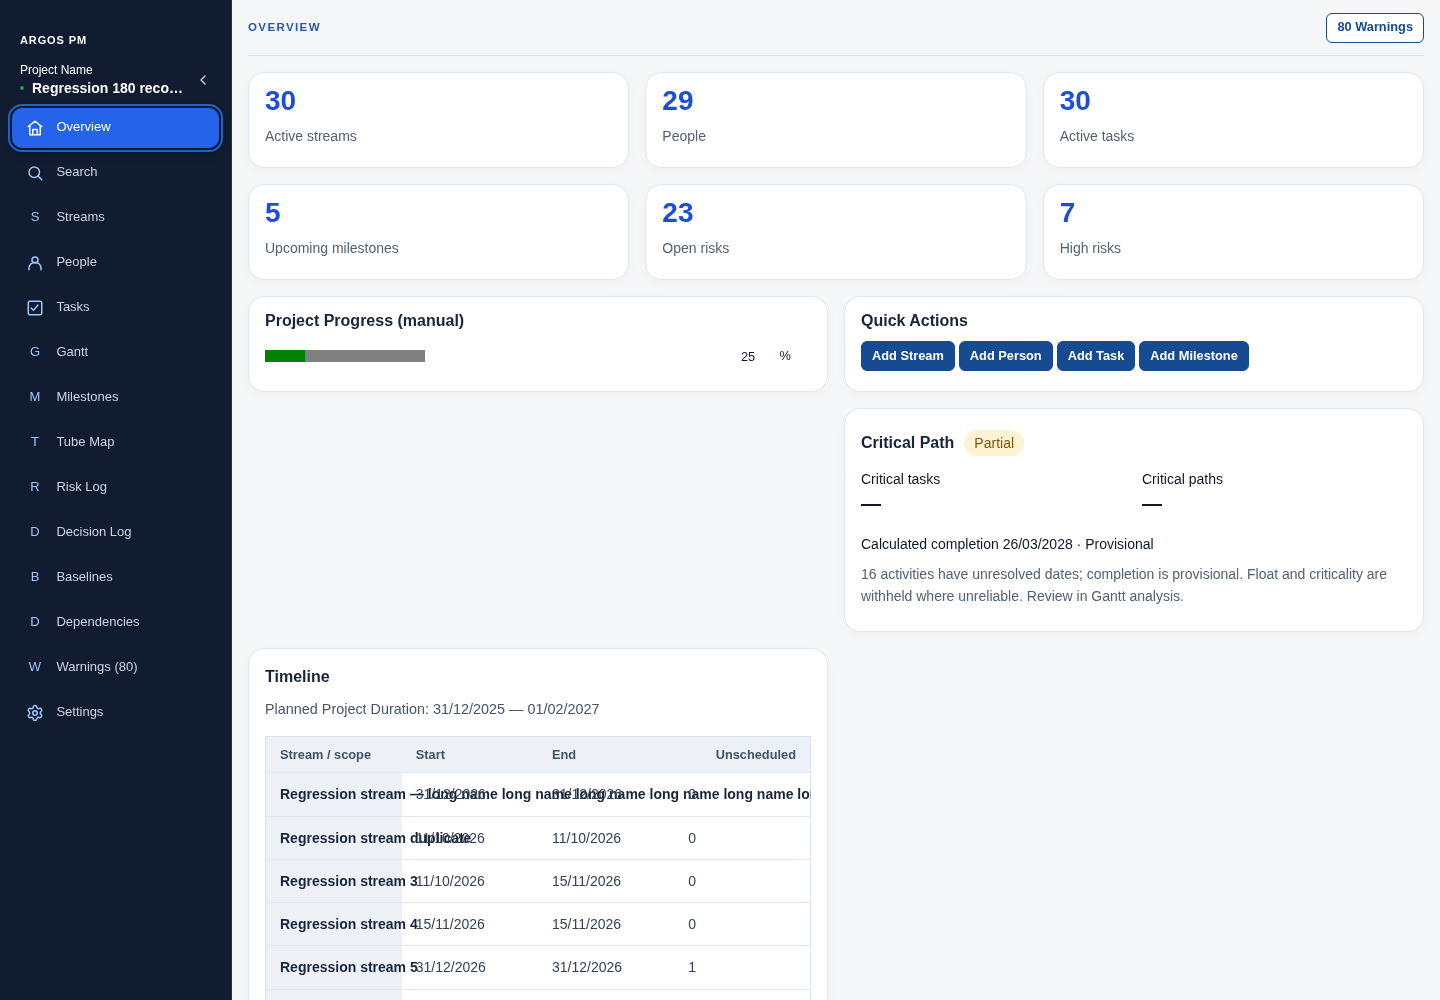
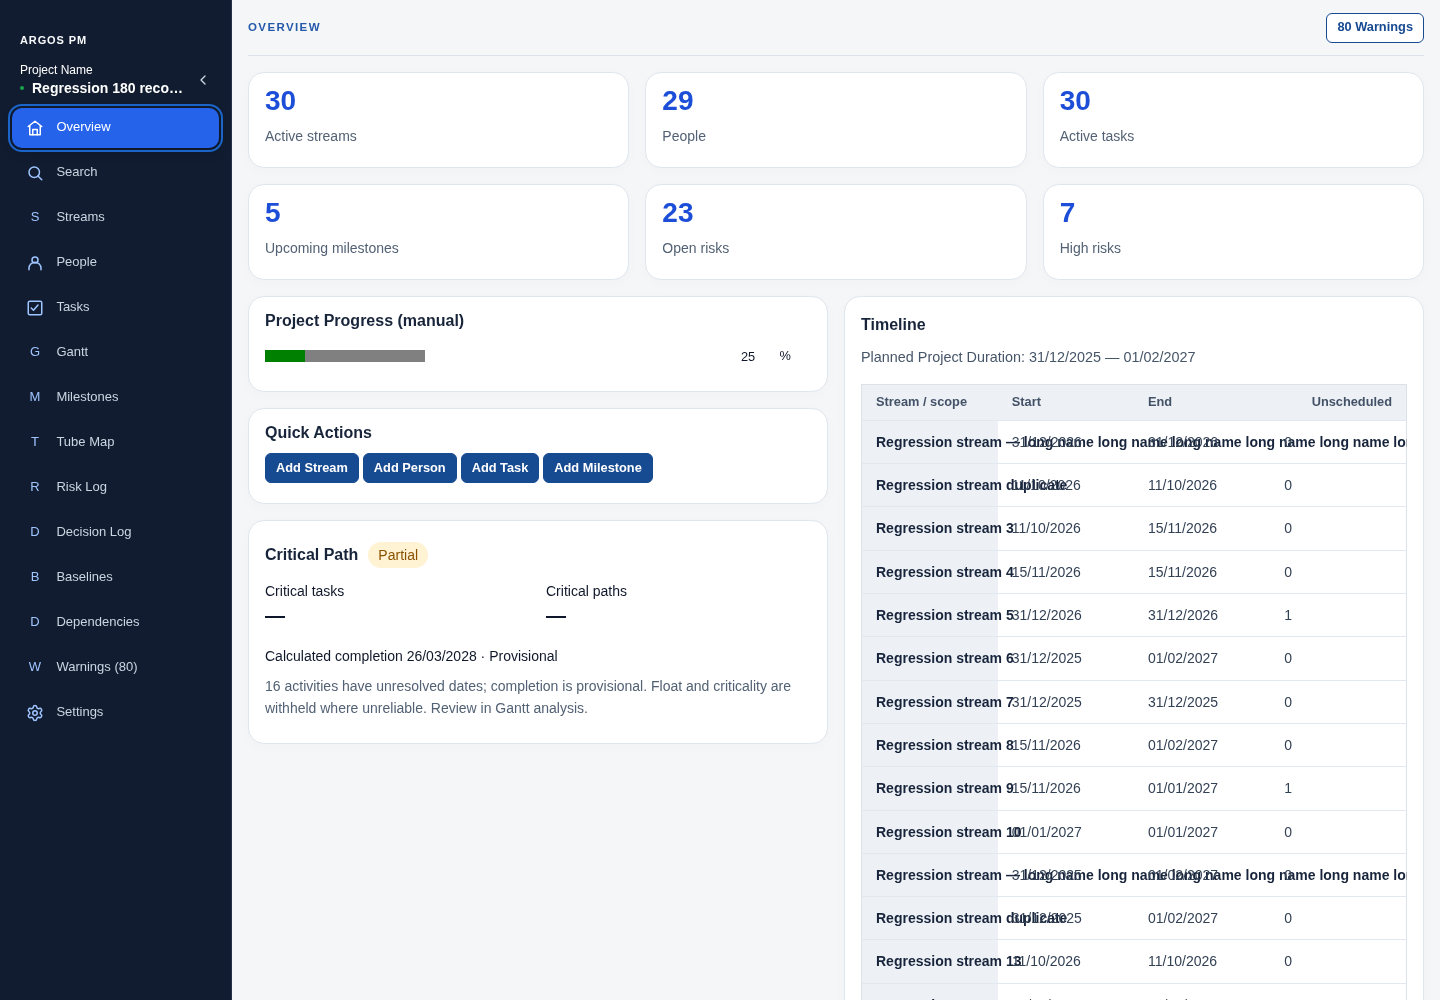
fix(overview): preserve dashboard columns when progress is shown

diff --git a/src/features/overview/overview.tsx b/src/features/overview/overview.tsx
@@ -10,4 +10,4 @@ import { useEffect, useState } from "react"; import { useProjectState } from "..
 type TimelineSortKey = "name" | "start" | "end" | "unscheduled";
 const formatTimelineDate = (date: string | undefined) => date && /^\d{4}-\d{2}-\d{2}$/.test(date) ? `${date.slice(8,10)}/${date.slice(5,7)}/${date.slice(0,4)}` : date || "—";
 export function Overview({ store, navigate }: { store: ProjectStore; navigate: (module: ModuleName, entityId?: string, view?: "critical-path") => void }) { const state = useProjectState(store); const [timelineSort, setTimelineSort] = useState<SortSelection<TimelineSortKey> | null>(null); const toggleTimelineSort = (key:TimelineSortKey) => setTimelineSort(previous => nextSort(previous,key)); const activeStreams = selectActiveStreams(state), activePeople = selectActivePeople(state), activeTasks = selectActiveTasks(state), upcomingMilestones = selectUpcomingMilestones(state), openRisks = selectOpenRisks(state), highRisks = selectOpenRisks(state).filter(risk => risk.riskLevel === "High");
- const warnings=useProjectWarnings(state); const timeline=deriveOverviewTimeline(state); const ready=projectReadiness(state).every(item=>item.ready); useEffect(()=>{if(ready&&!state.project.metadata.gettingStartedCompleted)store.execute(updateProject({metadata:{...state.project.metadata,gettingStartedCompleted:true}}));},[ready,state.project.metadata,store]); return <section className="panel overview-panel"><div className="title-row"><div><h1 className="module-page-title">OVERVIEW</h1></div><div className="actions"><ActionButton variant="secondary" onClick={()=>navigate("Warnings")}>{warnings.length} {warnings.length===1?"Warning":"Warnings"}</ActionButton></div></div><div className="kpis"><button onClick={() => navigate("Streams")}><strong>{activeStreams.length}</strong><span>Active streams</span></button><button onClick={() => navigate("People")}><strong>{activePeople.length}</strong><span>People</span></button><button onClick={() => navigate("Tasks")}><strong>{activeTasks.length}</strong><span>Active tasks</span></button><button onClick={() => navigate("Milestones")}><strong>{upcomingMilestones.length}</strong><span>Upcoming milestones</span></button><button onClick={() => navigate("Risk Log")}><strong>{openRisks.length}</strong><span>Open risks</span></button><button onClick={() => navigate("Risk Log")}><strong>{highRisks.length}</strong><span>High risks</span></button></div><div className="overview-grid">{state.project.metadata.showProgress!==false&&<ProjectProgress store={store}/>}{!state.project.metadata.gettingStartedCompleted&&!ready&&<article className="card"><h2>Getting started</h2><ul className="checklist">{projectReadiness(state).map(item => <li key={item.label}><Status>{item.ready ? "Complete" : "To do"}</Status>{item.label}</li>)}</ul></article>}<div className="overview-actions-stack"><article className="card quick-actions-card"><h2>Quick Actions</h2><div className="quick-actions"><ActionButton onClick={() => navigate("Streams")}>Add Stream</ActionButton><ActionButton onClick={() => navigate("People")}>Add Person</ActionButton>{activeStreams.length > 0 && <ActionButton onClick={() => navigate("Tasks")}>Add Task</ActionButton>}<ActionButton onClick={() => navigate("Milestones")}>Add Milestone</ActionButton></div></article><CriticalPathSummary onOpen={()=>navigate("Gantt",undefined,"critical-path")}/></div><article className="card"><h2>Timeline</h2>{timeline.start && timeline.end ? <p className="overview-timeline-range">Planned Project Duration: {formatTimelineDate(timeline.start)} — {formatTimelineDate(timeline.end)}</p> : <EmptyState title="No scheduled activities yet" description="Add dates to Tasks or Milestones to populate the timeline." />}<div className="overview-timeline-table-wrap"><FitTable className="overview-timeline-table"><thead><tr>{([["name","Stream / scope"],["start","Start"],["end","End"],["unscheduled","Unscheduled"]] as const).map(([key,label])=><th scope="col" key={key} aria-sort={timelineSort?.key===key?(timelineSort.direction==="asc"?"ascending":"descending"):"none"}><button type="button" className="sort-heading" onClick={()=>toggleTimelineSort(key)}>{label}{timelineSort?.key===key?(timelineSort.direction==="asc"?" ↑":" ↓"):""}</button></th>)}</tr></thead><tbody>{sortRows(timeline.rows,timelineSort,(row,key)=>row[key]).map(row=><tr key={row.id}><th scope="row">{row.name}</th><td>{formatTimelineDate(row.start)}</td><td>{formatTimelineDate(row.end)}</td><td>{row.unscheduled}</td></tr>)}</tbody></FitTable></div><p className="muted overview-timeline-footer">{timeline.unscheduledTotal} unique unscheduled activities across the project</p></article></div></section>; }
+ const warnings=useProjectWarnings(state); const timeline=deriveOverviewTimeline(state); const ready=projectReadiness(state).every(item=>item.ready); useEffect(()=>{if(ready&&!state.project.metadata.gettingStartedCompleted)store.execute(updateProject({metadata:{...state.project.metadata,gettingStartedCompleted:true}}));},[ready,state.project.metadata,store]); return <section className="panel overview-panel"><div className="title-row"><div><h1 className="module-page-title">OVERVIEW</h1></div><div className="actions"><ActionButton variant="secondary" onClick={()=>navigate("Warnings")}>{warnings.length} {warnings.length===1?"Warning":"Warnings"}</ActionButton></div></div><div className="kpis"><button onClick={() => navigate("Streams")}><strong>{activeStreams.length}</strong><span>Active streams</span></button><button onClick={() => navigate("People")}><strong>{activePeople.length}</strong><span>People</span></button><button onClick={() => navigate("Tasks")}><strong>{activeTasks.length}</strong><span>Active tasks</span></button><button onClick={() => navigate("Milestones")}><strong>{upcomingMilestones.length}</strong><span>Upcoming milestones</span></button><button onClick={() => navigate("Risk Log")}><strong>{openRisks.length}</strong><span>Open risks</span></button><button onClick={() => navigate("Risk Log")}><strong>{highRisks.length}</strong><span>High risks</span></button></div><div className="overview-grid"><div className="overview-actions-stack">{state.project.metadata.showProgress!==false&&<ProjectProgress store={store}/>}{!state.project.metadata.gettingStartedCompleted&&!ready&&<article className="card"><h2>Getting started</h2><ul className="checklist">{projectReadiness(state).map(item => <li key={item.label}><Status>{item.ready ? "Complete" : "To do"}</Status>{item.label}</li>)}</ul></article>}<article className="card quick-actions-card"><h2>Quick Actions</h2><div className="quick-actions"><ActionButton onClick={() => navigate("Streams")}>Add Stream</ActionButton><ActionButton onClick={() => navigate("People")}>Add Person</ActionButton>{activeStreams.length > 0 && <ActionButton onClick={() => navigate("Tasks")}>Add Task</ActionButton>}<ActionButton onClick={() => navigate("Milestones")}>Add Milestone</ActionButton></div></article><CriticalPathSummary onOpen={()=>navigate("Gantt",undefined,"critical-path")}/></div><article className="card"><h2>Timeline</h2>{timeline.start && timeline.end ? <p className="overview-timeline-range">Planned Project Duration: {formatTimelineDate(timeline.start)} — {formatTimelineDate(timeline.end)}</p> : <EmptyState title="No scheduled activities yet" description="Add dates to Tasks or Milestones to populate the timeline." />}<div className="overview-timeline-table-wrap"><FitTable className="overview-timeline-table"><thead><tr>{([["name","Stream / scope"],["start","Start"],["end","End"],["unscheduled","Unscheduled"]] as const).map(([key,label])=><th scope="col" key={key} aria-sort={timelineSort?.key===key?(timelineSort.direction==="asc"?"ascending":"descending"):"none"}><button type="button" className="sort-heading" onClick={()=>toggleTimelineSort(key)}>{label}{timelineSort?.key===key?(timelineSort.direction==="asc"?" ↑":" ↓"):""}</button></th>)}</tr></thead><tbody>{sortRows(timeline.rows,timelineSort,(row,key)=>row[key]).map(row=><tr key={row.id}><th scope="row">{row.name}</th><td>{formatTimelineDate(row.start)}</td><td>{formatTimelineDate(row.end)}</td><td>{row.unscheduled}</td></tr>)}</tbody></FitTable></div><p className="muted overview-timeline-footer">{timeline.unscheduledTotal} unique unscheduled activities across the project</p></article></div></section>; }

diff --git a/e2e/layout/consolidated-ui.spec.ts b/e2e/layout/consolidated-ui.spec.ts
@@ -58,3 +58,24 @@ for(const width of [1024,1440,1920])test(`Milestone dependencies reserve equal g
  const warning=page.locator('.milestone-warning').first();if(await warning.count()){const control=(await warning.locator('xpath=preceding-sibling::details').boundingBox())!,icon=(await warning.boundingBox())!;expect(icon.x).toBeGreaterThanOrEqual(control.x+control.width);await warning.locator('summary').click();await expect(page.locator('.anchored-options:popover-open')).toBeVisible();await page.keyboard.press('Escape');}
  expect(await page.locator('.workspace').evaluate(e=>e.scrollWidth-e.clientWidth)).toBeLessThanOrEqual(1);await nav(page,'Tube Map');await expect(page.locator('.workspace > .panel')).toHaveCSS('border-left-color','rgba(0, 0, 0, 0)');await expect(page.locator('.workspace > .panel')).toHaveCSS('border-right-color','rgba(0, 0, 0, 0)');await expect(page.locator('.tube-axis > span').first()).toHaveCSS('border-left-width','1px');await expect(page.locator('.tube-line').first()).toHaveCSS('border-bottom-width','1px');await expect(page.locator('.tube-axis > span')).toHaveCount(12);
 });
+
+for(const width of [375,900,1440])test(`Overview keeps its column order when progress is toggled at ${width}`,async({page})=>{
+ await page.setViewportSize({width,height:1000});await open(page,fixture.projectState);
+ const stack=page.locator('.overview-actions-stack'),timeline=page.locator('.overview-grid > article').filter({has:page.getByRole('heading',{name:'Timeline',exact:true})});
+ let initial:{x:number;y:number;width:number;height:number}|undefined;
+ for(const enabled of [true,false,true]){
+  await nav(page,'Settings');await page.getByRole('button',{name:'Edit Project Details',exact:true}).click();const dialog=page.getByRole('dialog',{name:'Project Details',exact:true});await dialog.getByRole('checkbox',{name:'Show progress information',exact:true}).setChecked(enabled);await dialog.getByRole('button',{name:'Done',exact:true}).click();await nav(page,'Overview');
+  await expect(page.locator('.project-progress-card')).toHaveCount(enabled?1:0);
+  const headings=await stack.getByRole('heading').allTextContents();expect(headings).toEqual([...(enabled?['Project Progress (manual)']:[]),'Quick Actions','Critical Path']);
+  const left=(await stack.boundingBox())!,right=(await timeline.boundingBox())!;
+  if(width>900){expect(right.x).toBeGreaterThan(left.x+left.width);expect(right.y).toBe(left.y);if(initial){expect(right).toEqual(initial);}else initial=right;}
+  else{expect(right.x).toBe(left.x);expect(right.y).toBeGreaterThanOrEqual(left.y+left.height);}
+  expect(await page.locator('.workspace').evaluate(e=>e.scrollWidth-e.clientWidth)).toBeLessThanOrEqual(1);
+ }
+});
+
+test('Overview keeps onboarding in the same left stack as progress and actions',async({page})=>{
+ await page.setViewportSize({width:1440,height:1000});await open(page,{...small,project:{...small.project,metadata:{...small.project.metadata,gettingStartedCompleted:false}}});
+ await expect(page.locator('.overview-actions-stack').getByRole('heading')).toHaveText(['Project Progress (manual)','Getting started','Quick Actions','Critical Path']);
+ const stack=(await page.locator('.overview-actions-stack').boundingBox())!,timeline=(await page.locator('.overview-grid > article').boundingBox())!;expect(timeline.x).toBeGreaterThan(stack.x+stack.width);expect(timeline.y).toBe(stack.y);
+});

diff --git a/docs/PROJECT_REQUIREMENTS.md b/docs/PROJECT_REQUIREMENTS.md
@@ -2224,3 +2224,8 @@ Implement the owner's six-change specification in a feature branch based on test
 Rename File Information to Settings in the user interface while preserving the internal route key and every existing file/audit feature. Move the single existing Project Details editor entry from Overview to a compact top Settings section. Manual progress is titled Project Progress (manual), without the separate label, with a shorter horizontal bar and compact right-hand numeric percentage including a fixed internal suffix. Valid whole percentages retain existing immediate-save semantics; intermediate/invalid drafts do not write invalid data. KPI, Quick Actions and progress tiles share a height rule; the heading is Quick Actions. Preserve all other Overview content. Audit data remains full-width, hidden by default, with the existing 50-row display, filter, sort, export and retention.
 
 Reserve a consistent external warning gutter in every Milestones Dependencies cell so controls have equal width and the entire Actions track moves right. Preserve counts, warnings, popovers, density and other column alignment without horizontal scrolling. Remove only the Tube Map page-level left/right frame lines; retain the chart's internal grid, boundaries, data, controls and scrolling. No merge, release, deployment, schema or PMP compatibility change is authorised.
+
+
+## Overview progress layout consistency — 9 November 2026
+
+Enabling Show progress information must preserve the Overview dashboard column structure: progress, optional Getting started, Quick Actions and Critical Path belong to the left stack; Timeline remains alongside that stack on desktop. Disabling progress removes only its tile without moving Timeline or reordering the other sections. On narrow screens retain the same reading order in one column. Preserve summary-card heights, editing behavior and all other dashboard functionality.

diff --git a/docs/CONSOLIDATED_UI_UX.md b/docs/CONSOLIDATED_UI_UX.md
@@ -54,3 +54,9 @@ npm run dev
 ```
 
 Open http://localhost:3000. If the branch already exists locally, switch to it and use `git pull --ff-only`. The review branch includes all fixes inherited from `test/latest-ui-fixes`, including PR #30.
+
+## Follow-up: stable Overview columns
+
+Enabling progress previously inserted a new top-level grid item, moving Quick Actions into the right column and Timeline onto the next row. Progress and optional Getting started now join the existing left-hand Quick Actions/Critical Path stack. Timeline retains its right-hand column and top alignment when progress is toggled; narrow screens keep the same reading order in one column. Summary heights, progress editing, onboarding and all other dashboard behavior remain intact.
+
+Validation: production build (including TypeScript/token checks) and lint pass. `CHROME_PATH=/usr/bin/chromium npm run test:targeted -- layout e2e/layout/consolidated-ui.spec.ts --grep 'Overview|Settings'` passes all seven selected cases (22.2s browser time), including four new layout cases. Tests toggle progress on/off/on at 375, 900 and 1440px, assert an unchanged desktop Timeline rectangle, check mobile ordering/overflow, and cover onboarding. The Overview after screenshot and measurements above reflect this correction.
